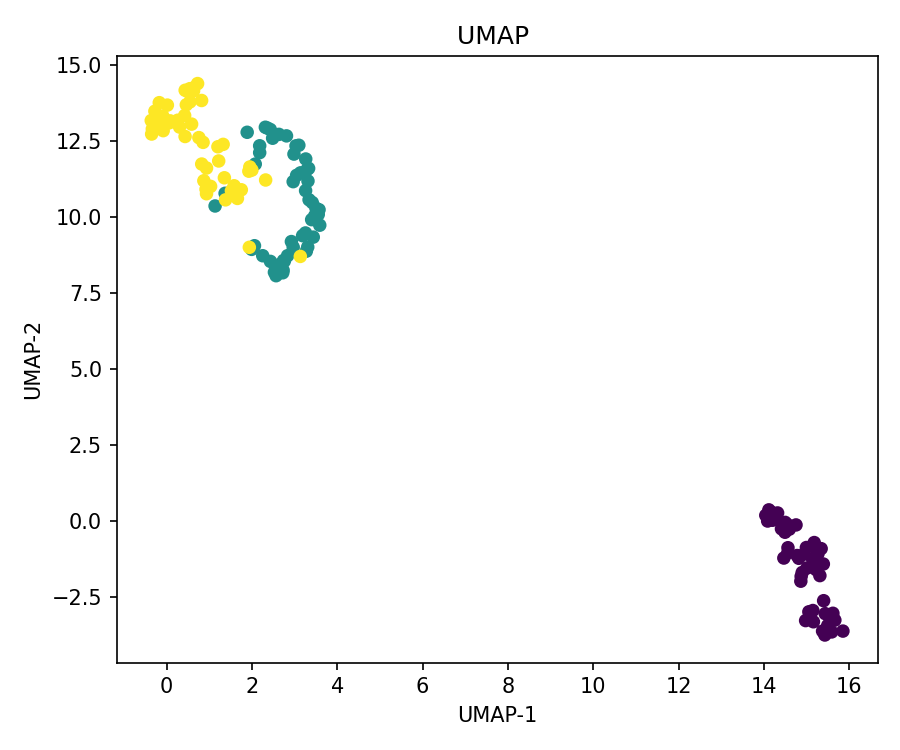
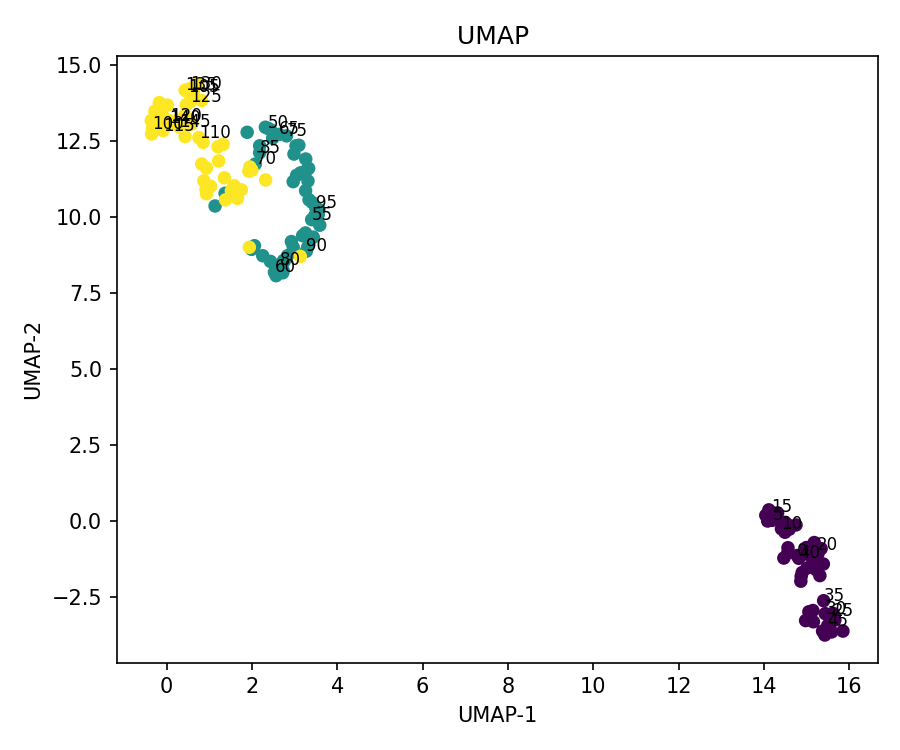
module update

diff --git a/module/Utilities/samping_method.py b/module/Utilities/samping_method.py
@@ -1,6 +1,109 @@
 import numpy as np
+import pandas as pd
+from fractions import Fraction
 
-def interval_sampling(data,start_index,interval_count)-> np.ndarray:
-    interval_data=data[start_index::interval_count]
+
+def interval_sampling(data,start_index=0,end_index=-1,interval_count=1,time_index=None):
+    '''interval sampling '''
+    if interval_count==1:
+        interval_data = data.iloc[start_index:end_index:int(interval_count)]
+    else:
+        score = Fraction(interval_count).limit_denominator(100)
+        denominator = score.denominator
+        numerator = score.numerator
+        if denominator == 1:
+            expand_data = data
+        else:
+            expand_data=expand_timeseries(data, factor=denominator)
+        start_index = start_index * denominator if start_index != -1 else start_index
+        end_index = end_index * denominator if end_index != -1 else end_index
+        interval_data = expand_data.iloc[start_index:end_index:numerator]
     return interval_data
 
+def expand_timeseries(data,factor,time_index='Time') -> pd.DataFrame:
+    '''expand data and time  '''
+    if time_index is None:
+        data = data.reset_index(drop=True)
+        old_index = np.arange(len(data))
+        new_index = np.linspace(0, len(data) - 1, len(data) * factor)
+        data_new = pd.DataFrame(np.empty((len(new_index), len(data.columns))),
+                              columns=data.columns)
+
+        for col in data.columns:
+            data_new[col] = np.interp(new_index, old_index, data[col])
+    else:
+        data[time_index] = pd.to_datetime(data[time_index], errors='coerce')
+        dt = pd.to_timedelta(detect_time_interval(data[time_index].head(10)))
+        data = data.set_index(time_index)
+        data = data.sort_index()
+        half_dt = dt / factor
+        new_index = pd.date_range(start=data.index.min(),
+                                  end=data.index.max(),
+                                  freq=half_dt)
+        data_new = data.reindex(data.index.union(new_index))
+        data_new = data_new.interpolate(method='time')
+        data_new = data_new.loc[new_index]
+        data_new = data_new.reset_index().rename(columns={'index': time_index})
+    return data_new
+
+def time_sampling(data,start_time=None,end_time=None,interval_count=None,time_index='Time'):
+    ''' time samping '''
+    excel_time = pd.to_datetime(data[time_index], errors='coerce')
+    if start_time is None:
+        start_index=0
+    else:
+        start_time = pd.to_datetime(start_time)
+        idx = excel_time[excel_time > start_time].index
+        if len(idx) == 0:
+            start_index = None
+        else:
+            start_index = idx[0]
+
+    if end_time is None:
+        end_index=-1
+    else:
+        end_time = pd.to_datetime(end_time)
+        idx = excel_time[excel_time < end_time].index
+        if len(idx) == 0:
+            end_index = None
+        else:
+            end_index = idx[-1]+1
+    if interval_count is None:
+        time_ratio=1
+    else:
+        '''The Time of the Excel file is time by default'''
+        data_time=excel_time.head(10)
+        interval_time=detect_time_interval(data_time)[:-1]
+        time_ratio=interval_count/int(interval_time)
+
+    interval_data=interval_sampling(data, start_index=start_index, end_index= end_index, interval_count=time_ratio)
+    return interval_data
+
+
+
+def detect_time_interval(series: pd.Series) -> str:
+    """
+    Automatically determine the closest interval level based on the time series.
+    < 60 seconds: round to the nearest seconds
+    ≥ 60 seconds: round to the nearest minute
+    """
+
+    times = pd.to_datetime(series)
+    deltas = times.diff().dropna().dt.total_seconds()
+    if len(deltas) == 0:
+        return None
+
+    interval = deltas.round().mode()[0]
+    if interval < 60:
+        return f"{int(interval)}s"
+    else:
+        nearest_minute = round(interval / 60)
+        return f"{nearest_minute*60}s"
+
+
+
+if __name__ == '__main__':
+    data=pd.read_excel(r'D:\Pycharm Project\2EH\data\Heat_Recovery_System.xlsx',sheet_name='Sheet2')
+    # interval_data=interval_sampling(data,interval_count=2.0)
+    interval_data=time_sampling(data,interval_count=1800,start_time='2023-01-02 ',end_time='2023-01-03 22:00:00 ')
+    print('end')

diff --git a/module/plot_figure/PCA_plot.py b/module/plot_figure/PCA_plot.py
@@ -1,41 +1,41 @@
 import matplotlib.pyplot as plt
+from mpl_toolkits.mplot3d import Axes3D
 import numpy as np
-def pca_plot_2D(data,pca_vector,pca_variance_ratio,labels=None):
-    try:
-        pca_vector_dimension = pca_vector.shape[1]
-        if pca_vector_dimension == 2:
-            latent_data = np.matmul(data, pca_vector)
-            x = latent_data[:,0]
-            y = latent_data[:, 1]
-            pca_variance_ratio_x=np.round(pca_variance_ratio[0],2)
-            pca_variance_ratio_y=np.round(pca_variance_ratio[1],2)
-            plt.figure(figsize=(6, 4))
-            plt.scatter(x, y,c=labels, label='Data Points')  # 散點圖
-            plt.xlabel(f'X  {str(pca_variance_ratio_x)} %')
-            plt.ylabel(f'Y  {str(pca_variance_ratio_y)} %')
-            plt.title('2D Data Visualization')
-            plt.legend()
-            plt.grid(True)
-            plt.tight_layout()
 
-            ax = plt.gca()  # 取得目前的軸對象
-            x_min, x_max = ax.get_xlim()
-            y_min, y_max = ax.get_ylim()
-            if (x_max - x_min) < 0.5:
-                ax.set_xlim(-0.3, 0.3)
-            if (y_max - y_min) < 0.5:
-                ax.set_ylim(-0.3, 0.3)
+def pca_plot_2D(data,pca_vector,pca_variance_ratio,labels=None,plot_samping=5):
+    pca_vector_dimension = pca_vector.shape[1]
+    if pca_vector_dimension == 2:
+        latent_data = np.matmul(data, pca_vector)
+        x = latent_data[:,0]
+        y = latent_data[:, 1]
+        pca_variance_ratio_x=np.round(pca_variance_ratio[0],2)
+        pca_variance_ratio_y=np.round(pca_variance_ratio[1],2)
+        plt.figure(figsize=(6, 4))
+        plt.scatter(x, y,c=labels, label='Data Points')
 
-            plt.savefig('pca_plot.png', dpi=150)
-            plt.show()
-            print('finished plotting')
-        else:
-            print('pca_vector_dimension must be 2 ')
-    except Exception as e:
-        print("\033[1;31mpca_plot_2D ERROR：\033[0m", e)
+        plt.xlabel(f'X  {str(pca_variance_ratio_x)} %')
+        plt.ylabel(f'Y  {str(pca_variance_ratio_y)} %')
+        plt.title('2D Data Visualization')
+        plt.legend()
+        plt.grid(True)
+        plt.tight_layout()
 
+        ax = plt.gca()
+        for i in range(0, len(x), plot_samping):
+            ax.text(x[i], y[i],  str(i), fontsize=8, color='black')
 
+        x_min, x_max = ax.get_xlim()
+        y_min, y_max = ax.get_ylim()
+        if (x_max - x_min) < 0.5:
+            ax.set_xlim(-0.3, 0.3)
+        if (y_max - y_min) < 0.5:
+            ax.set_ylim(-0.3, 0.3)
 
+        plt.savefig('pca_plot.png', dpi=150)
+        plt.show()
+        print('finished plotting')
+    else:
+        print('pca_vector_dimension must be 2 ')
 
 
 def plot_test():

diff --git a/main_code.py b/main_code.py
@@ -1,34 +1,39 @@
 import numpy as np
-from module.Utilities import normalize ,error_callback
+from module.Utilities import normalize , error_callback , samping_method
 from module.dim_reduce import PCA as PCA_EJ ,UMAP as UMAP_EJ ,tSNE as tSNE_EJ
 from module.plot_figure import PCA_plot , UMPA_plot , tSNE_plot
 from sklearn.datasets import load_iris
+import pandas as pd
 
 def simulation_pca():
     x, y = load_iris(return_X_y=True)
     normalize_data,mean_data,std_data= normalize.normalize_gaussian(data=x)
     pca_model,pca_vector,pca_variance,pca_variance_ratio,latent_data = (
-        PCA_EJ.pca_train(data=normalize_data,n_components=2,))
-    PCA_plot.pca_plot_2D(data=normalize_data,pca_vector=pca_vector,pca_variance_ratio=pca_variance_ratio,labels=None)
+        PCA_EJ.pca_train(data=normalize_data,n_components=3,))
+    PCA_plot.pca_plot_3D(data=normalize_data,pca_vector=pca_vector,pca_variance_ratio=pca_variance_ratio,labels=y)
 
 def simulation_umap():
     x, y = load_iris(return_X_y=True)
     normalize_data, mean_data, std_data = normalize.normalize_gaussian(data=x)
-    umap_data=UMAP_EJ.umap_mapping(data=normalize_data,n_components=2,n_neighbors=15,random_state=42,)
-    UMPA_plot.umap_plot_2D(data=umap_data,labels=y)
+    umap_data=UMAP_EJ.umap_mapping(data=normalize_data,n_components=3,n_neighbors=15,random_state=42,)
+    UMPA_plot.umap_plot_3D(data=umap_data,labels=y)
 
 def simulation_tsne():
     x, y = load_iris(return_X_y=True)
     normalize_data, mean_data, std_data = normalize.normalize_gaussian(data=x)
-    tSNE_EJ.tsne_mapping(data=normalize_data,n_components=2,perplexity=30,random_state=42,)
-    tSNE_plot.tsne_plot_2D(data=normalize_data,labels=y)
+    tSNE_EJ.tsne_mapping(data=normalize_data,n_components=3,perplexity=30,random_state=42,)
+    tSNE_plot.tsne_plot_3D(data=normalize_data,labels=y)
 
 
 
 def main():
     try:
-        simulation_pca()
+        simulation_umap()
     except Exception as e:
         error_callback.print_project_trace(e)
+    # data=pd.read_excel(r'D:\Pycharm Project\2EH\data\Heat_Recovery_System.xlsx',sheet_name='Sheet2')
+    # interval_data=samping_method.interval_sampling(data=data,interval_count=5,start_index=1)
+    # interval_data = samping_method.time_sampling(data, interval_count=1800, start_time='2023-01-02 ', end_time='2023-01-03 22:00:00 ')
+    # print('end')
 if __name__ == '__main__':
     main()

diff --git a/module/plot_figure/tSNE_plot.py b/module/plot_figure/tSNE_plot.py
@@ -1,11 +1,36 @@
 import matplotlib.pyplot as plt
+from mpl_toolkits.mplot3d import Axes3D
 
-def tsne_plot_2D(data,labels=None,sample=30):
+def tsne_plot_2D(data,labels=None,sample=30,plot_samping=5):
     plt.figure(figsize=(6, 5))
     plt.scatter(data[:, 0], data[:, 1], c=labels, s=sample)
-    plt.title("T-SNE ")
-    plt.xlabel("T-SNE-1")
-    plt.ylabel("T-SNE-2")
+    for i in range(0,len(data),plot_samping):
+        plt.text(data[i, 0], data[i, 1], str(i),
+                 fontsize=8, color='black',)
+    plt.title("t-SNE ")
+    plt.xlabel("t-SNE-1")
+    plt.ylabel("t-SNE-2")
     plt.tight_layout()
-    plt.savefig('T-SNE_plot.png', dpi=150)
+    plt.savefig('t-SNE_plot.png', dpi=150)
+    plt.show()
+
+def tsne_plot_3D(data,labels=None,sample=30,plot_samping=5):
+    fig = plt.figure(figsize=(6, 5))
+    ax = fig.add_subplot(111, projection='3d')
+
+    # 假設 data 是 shape = (n_samples, 3)
+    ax.scatter(data[:, 0], data[:, 1], data[:, 2], c=labels, s=sample)
+
+    # 加上每隔 plot_samping 的點標註編號
+    for i in range(0, len(data), plot_samping):
+        ax.text(data[i, 0], data[i, 1], data[i, 2], str(i),
+                fontsize=8, color='black')
+
+    ax.set_title("t-SNE 3D")
+    ax.set_xlabel("t-SNE-1")
+    ax.set_ylabel("t-SNE-2")
+    ax.set_zlabel("t-SNE-3")
+
+    plt.tight_layout()
+    plt.savefig('t-SNE_plot_3D.png', dpi=150)
     plt.show()

diff --git a/module/plot_figure/UMPA_plot.py b/module/plot_figure/UMPA_plot.py
@@ -1,12 +1,32 @@
 import matplotlib.pyplot as plt
 
-
-def umap_plot_2D(data,labels=None,sample=30):
+def umap_plot_2D(data,labels=None,sample=30,plot_samping=5):
     plt.figure(figsize=(6, 5))
     plt.scatter(data[:, 0], data[:, 1], c=labels, s=sample)
+    for i in range(0,len(data),plot_samping):
+        plt.text(data[i, 0], data[i, 1], str(i),
+                 fontsize=8, color='black',)
     plt.title("UMAP ")
     plt.xlabel("UMAP-1")
     plt.ylabel("UMAP-2")
     plt.tight_layout()
     plt.savefig('umap_plot.png', dpi=150)
+    plt.show()
+
+def umap_plot_3D(data,labels=None,sample=30,plot_samping=5):
+    fig = plt.figure(figsize=(6, 5))
+    ax = fig.add_subplot(111, projection='3d')
+
+    ax.scatter(data[:, 0], data[:, 1], data[:, 2], c=labels, s=sample)
+    for i in range(0, len(data), plot_samping):
+        ax.text(data[i, 0], data[i, 1], data[i, 2], str(i),
+                fontsize=8, color='black')
+
+    ax.set_title("UMAP 3D")
+    ax.set_xlabel("UMAP-1")
+    ax.set_ylabel("UMAP-2")
+    ax.set_zlabel("UMAP-3")
+
+    plt.tight_layout()
+    plt.savefig('umap_plot_3D.png', dpi=150)
     plt.show()
